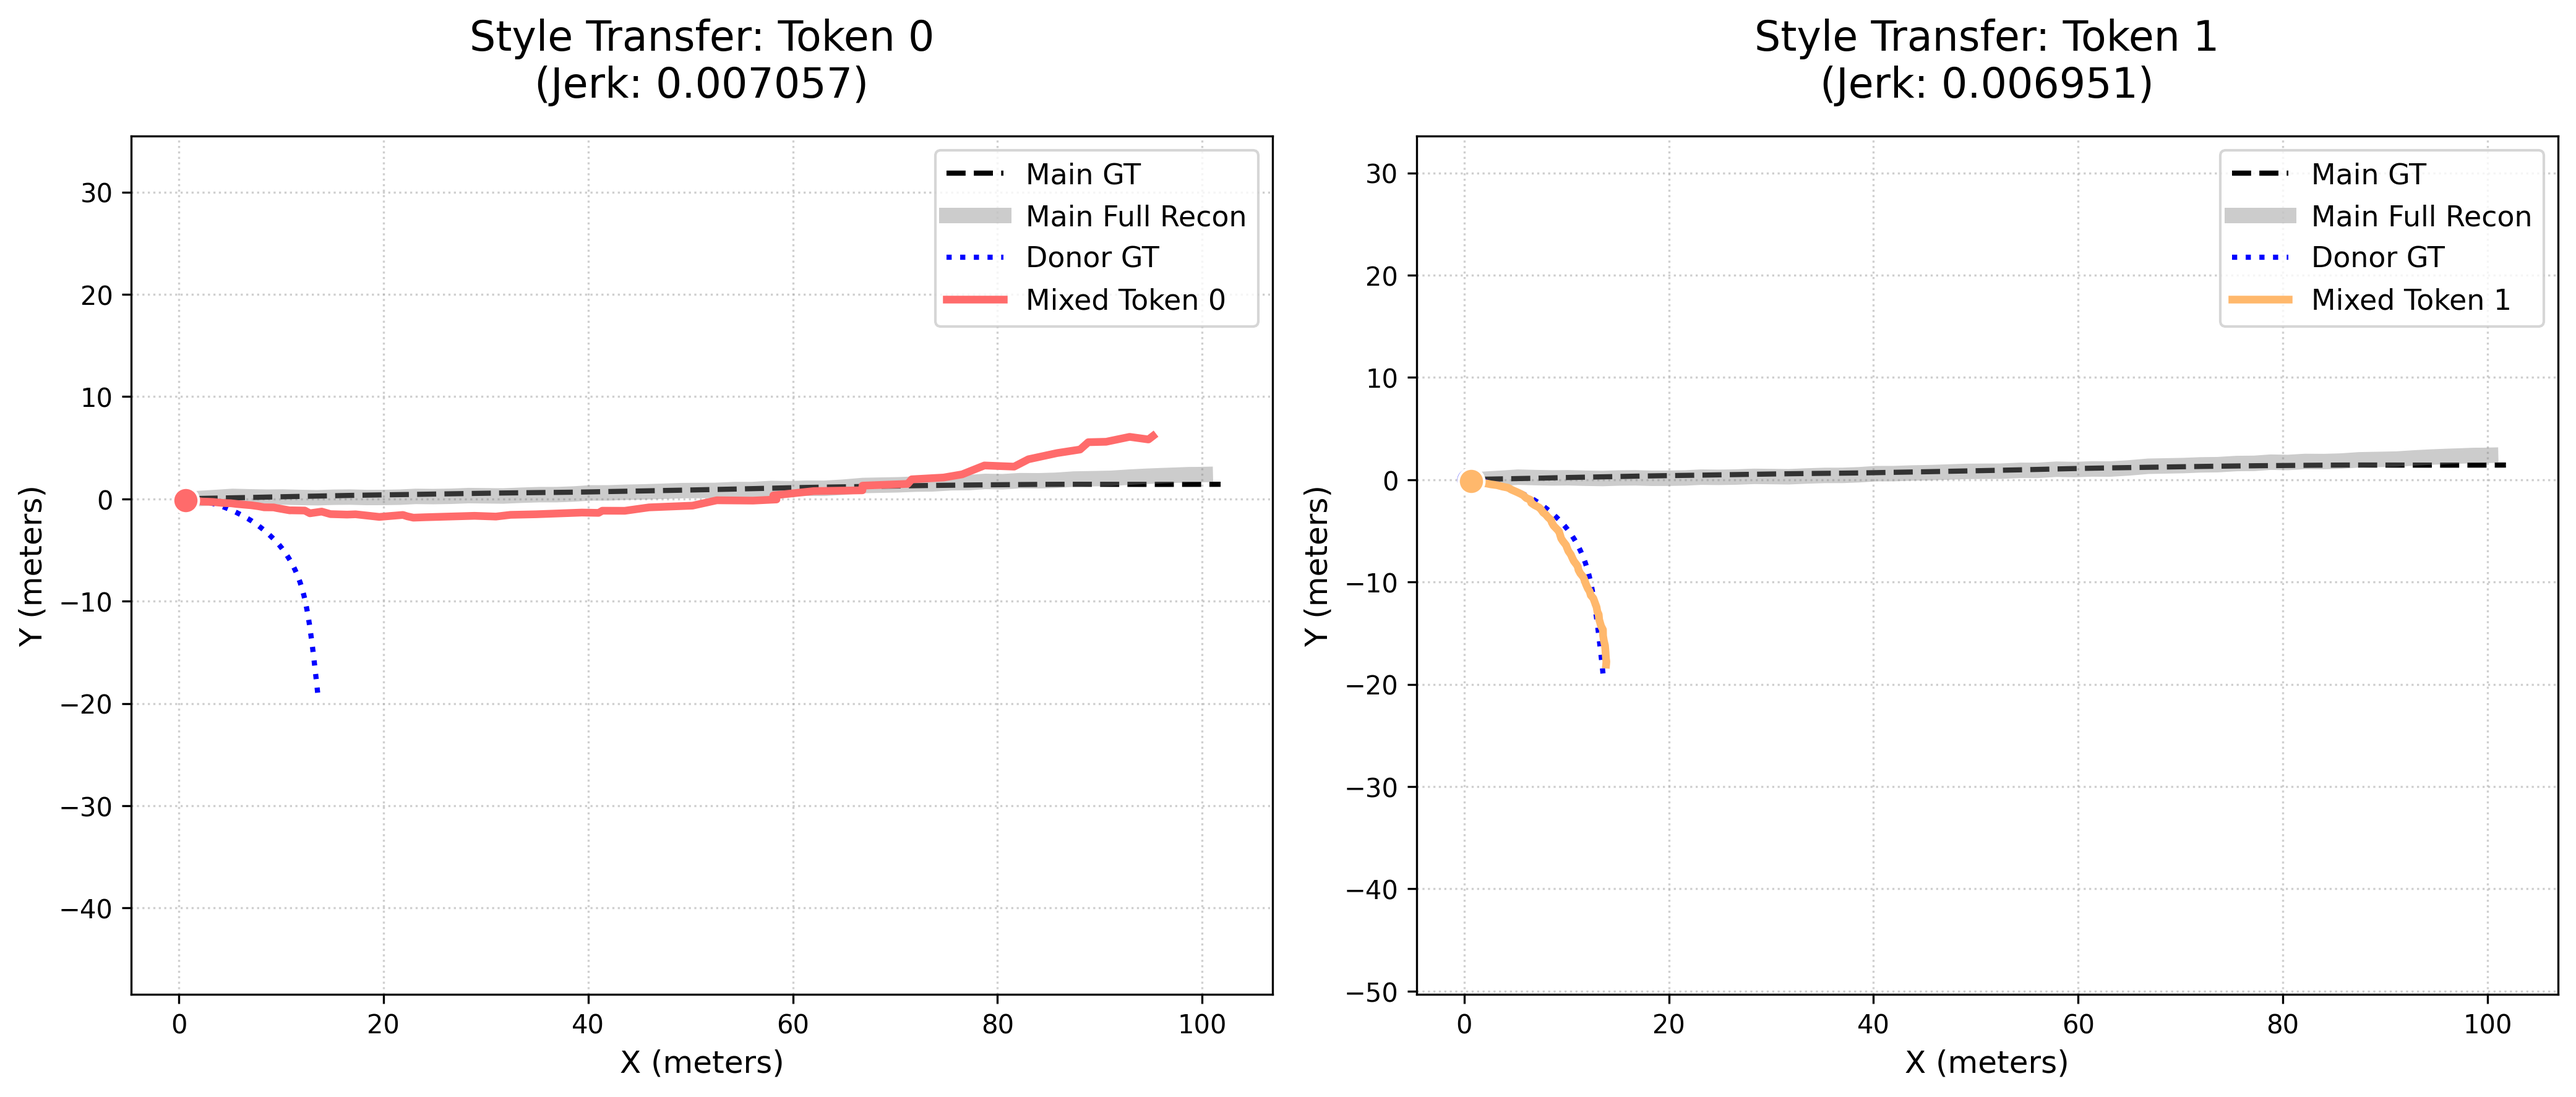
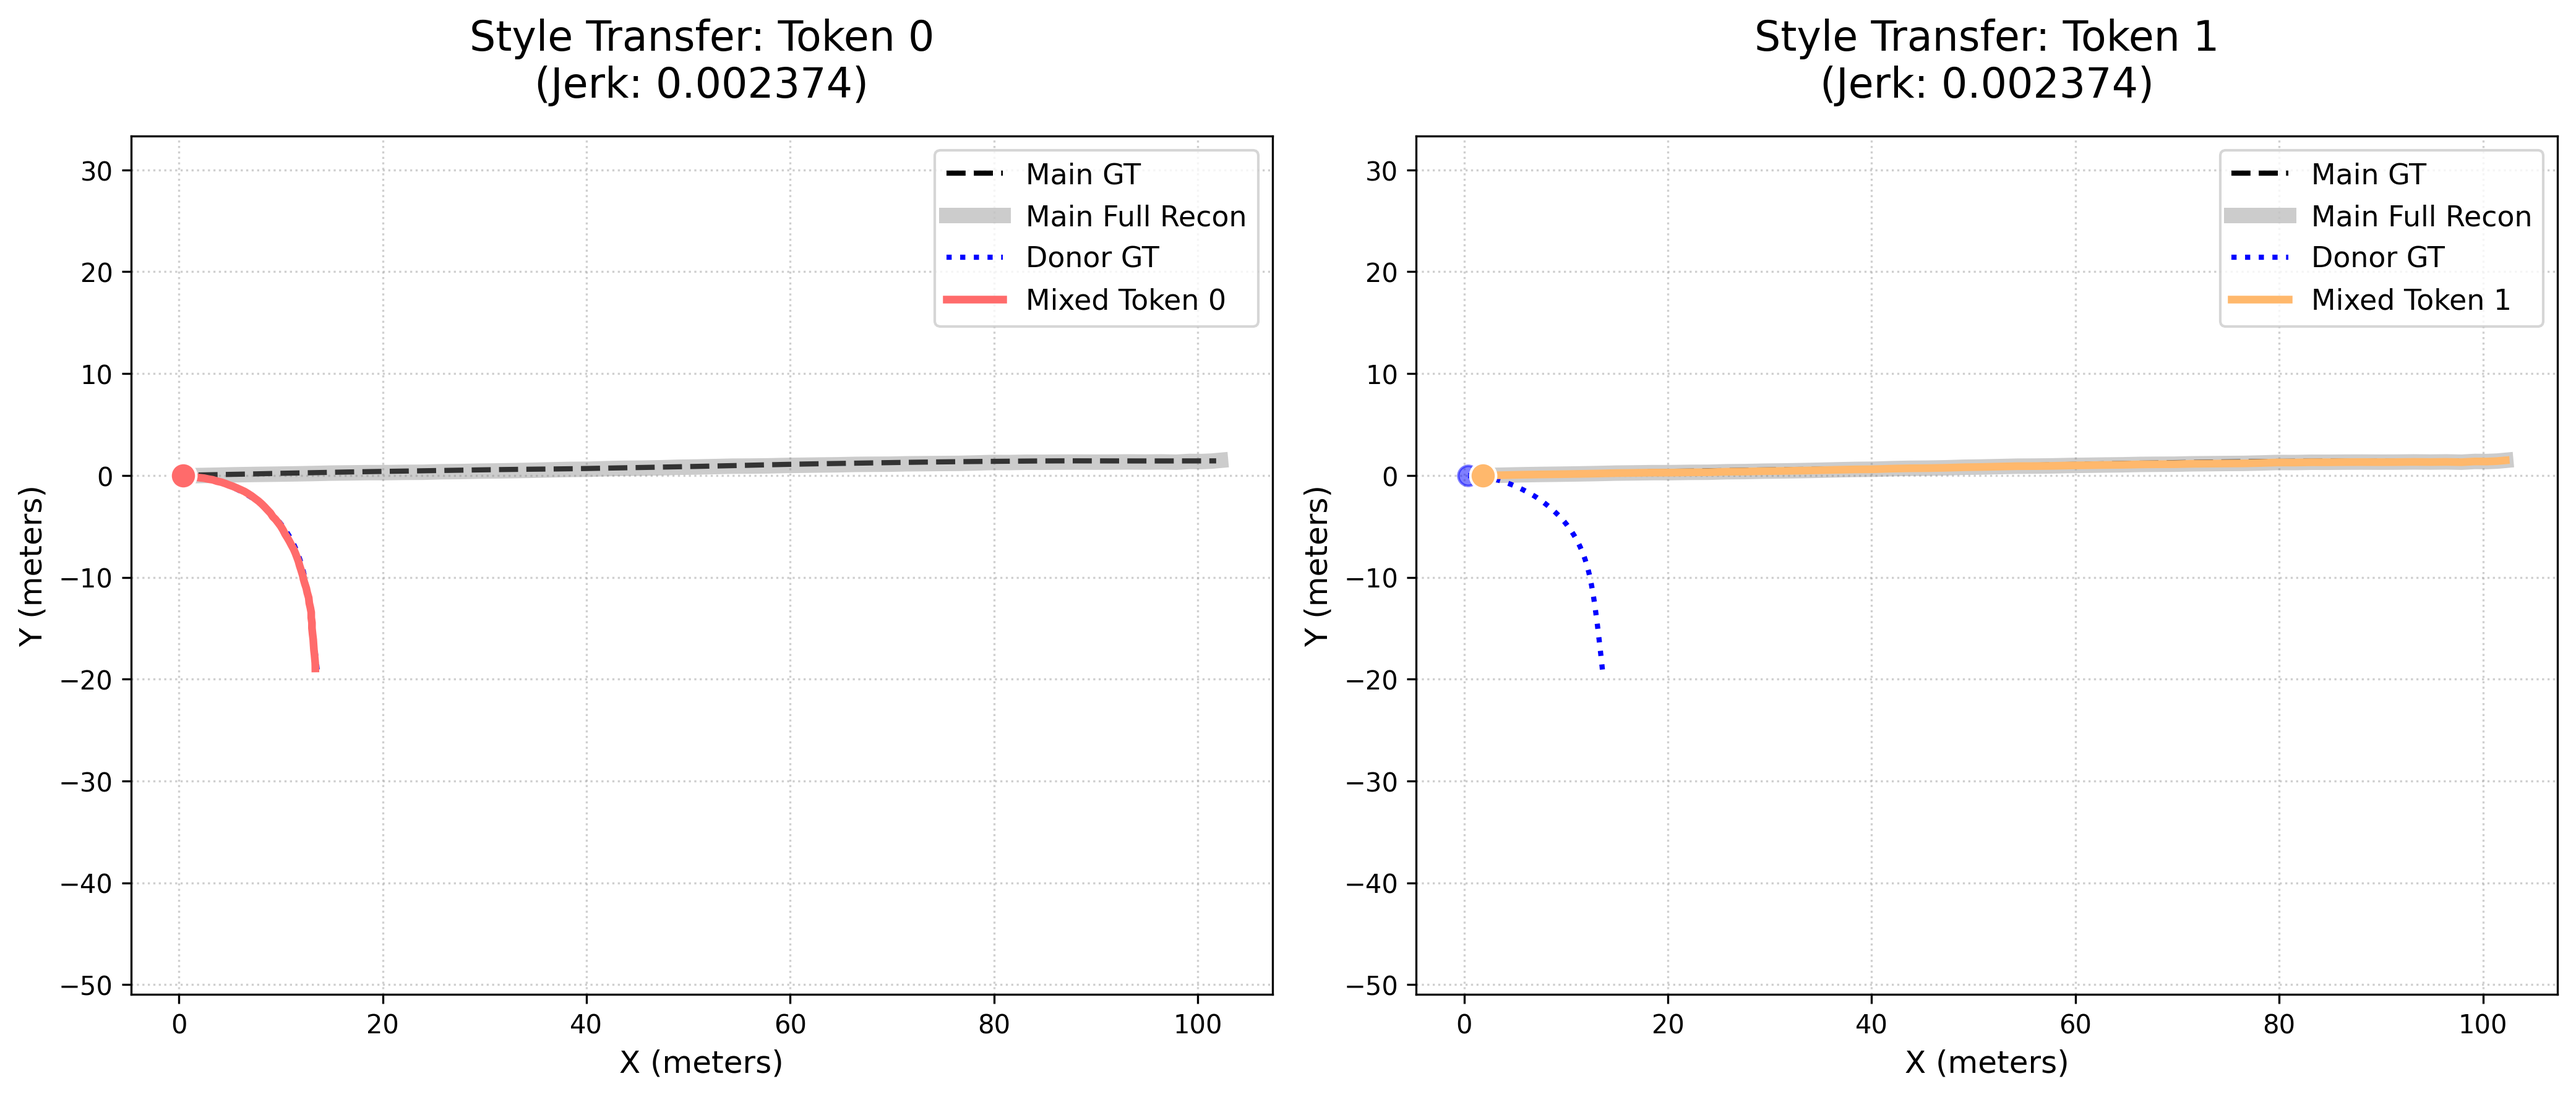
无分工引导VAE

diff --git a/layers/VAE.py b/layers/VAE.py
@@ -13,6 +13,8 @@
 # limitations under the License.
 from typing import Tuple
 
+import math
+
 import torch
 import torch.nn as nn
 
@@ -74,8 +76,7 @@ class VAEEncoderBlock(nn.Module):
     # ------------------------------------------------------------------
     #  Helper: self-attention transformer block
     # ------------------------------------------------------------------
-    @staticmethod
-    def _self_attn_block(x: torch.Tensor,
+    def _self_attn_block(self, x: torch.Tensor,
                          norm1: nn.LayerNorm,
                          attn: nn.MultiheadAttention,
                          norm2: nn.LayerNorm,
@@ -91,8 +92,7 @@ class VAEEncoderBlock(nn.Module):
     # ------------------------------------------------------------------
     #  Helper: cross-attention transformer block
     # ------------------------------------------------------------------
-    @staticmethod
-    def _cross_attn_block(q: torch.Tensor,
+    def _cross_attn_block(self, q: torch.Tensor,
                           kv: torch.Tensor,
                           norm_q: nn.LayerNorm,
                           norm_kv: nn.LayerNorm,
@@ -172,12 +172,12 @@ class VAEDecoderBlock(nn.Module):
             nn.Dropout(dropout),
             nn.Linear(hidden_dim * 4, hidden_dim),
         )
+        self.last_attn_weights = None
 
     # ------------------------------------------------------------------
     #  Helper: self-attention transformer block
     # ------------------------------------------------------------------
-    @staticmethod
-    def _self_attn_block(x: torch.Tensor,
+    def _self_attn_block(self, x: torch.Tensor,
                          norm1: nn.LayerNorm,
                          attn: nn.MultiheadAttention,
                          norm2: nn.LayerNorm,
@@ -192,8 +192,7 @@ class VAEDecoderBlock(nn.Module):
     # ------------------------------------------------------------------
     #  Helper: cross-attention transformer block
     # ------------------------------------------------------------------
-    @staticmethod
-    def _cross_attn_block(q: torch.Tensor,
+    def _cross_attn_block(self,q: torch.Tensor,
                           kv: torch.Tensor,
                           norm_q: nn.LayerNorm,
                           norm_kv: nn.LayerNorm,
@@ -203,7 +202,8 @@ class VAEDecoderBlock(nn.Module):
         """Pre-Norm → Cross-Attention → Residual → Pre-Norm → FFN → Residual."""
         q_norm = norm_q(q)
         kv_norm = norm_kv(kv)
-        attn_out, _ = attn(q_norm, kv_norm, kv_norm)
+        attn_out, attn_weights = attn(q_norm, kv_norm, kv_norm)
+        self.last_attn_weights = attn_weights
         q = q + attn_out
         q = q + ffn(norm2(q))
         return q
@@ -249,7 +249,7 @@ class VAE(nn.Module):
                  num_future_steps: int = 60,
                  num_intents: int = 4,
                  num_encoder_blocks: int = 2,
-                 num_decoder_blocks: int = 1,
+                 num_decoder_blocks: int = 2,
                  num_freq_bands: int = 64,
                  num_heads: int = 8,
                  dropout: float = 0.1) -> None:
@@ -261,7 +261,7 @@ class VAE(nn.Module):
         self.latent_dim = latent_dim
 
         # ---- Encoder: Fourier embedding ----
-        self.fourier_emb = FourierEmbedding(input_dim=input_dim, hidden_dim=hidden_dim,
+        self.fourier_emb = FourierEmbedding(input_dim=input_dim*2, hidden_dim=hidden_dim,
                                              num_freq_bands=num_freq_bands)
 
         # ---- Encoder: Stacked VAEEncoderBlocks ----
@@ -271,7 +271,20 @@ class VAE(nn.Module):
             for _ in range(num_encoder_blocks)
         ])
 
-        self.intent_queries = nn.Parameter(torch.randn(num_intents, 1, hidden_dim))
+        pe = torch.zeros(num_future_steps, hidden_dim)
+        position = torch.arange(0, num_future_steps, dtype=torch.float).unsqueeze(1)
+        div_term = torch.exp(torch.arange(0, hidden_dim, 2).float() * (-math.log(10000.0) / hidden_dim))
+        pe[:, 0::2] = torch.sin(position * div_term)
+        pe[:, 1::2] = torch.cos(position * div_term)
+        pe = pe.unsqueeze(1) # [T_f, 1, hidden_dim]
+        self.register_buffer('time_pe', pe) # 注册 buffer，使其随模型保存但不参与梯度更新
+        
+        # 2. 可学习的时间查询基座 (保持不变)
+        self.time_queries_base = nn.Parameter(torch.randn(num_future_steps, 1, hidden_dim) * 0.1)
+
+        self.register_buffer('time_pe', pe)
+
+        self.intent_queries = nn.Parameter(torch.randn(num_intents, 1, hidden_dim) * 0.1)
 
         # ---- Reparameterization (shared MLP, after all encoder blocks) ----
         self.reparam_mlp = nn.Sequential(
@@ -311,10 +324,14 @@ class VAE(nn.Module):
             logvar: [3, N_a, hidden_dim]
             z:      [3, N_a, hidden_dim] sampled latent variables.
         """
-        N_a, T_f, _ = x.shape
+        N_a, T_f, D = x.shape
+
+        vel = torch.cat([torch.zeros(N_a, 1, D, device=x.device), 
+                         x[:, 1:, :] - x[:, :-1, :]], dim=1)
+        x_augmented = torch.cat([x, vel], dim=-1)
 
         # 1. FourierEmbedding per timestep
-        x_flat = x.view(N_a * T_f, self.input_dim)
+        x_flat = x_augmented.view(N_a * T_f, self.input_dim * 2)
         x_emb = self.fourier_emb(continuous_inputs=x_flat, categorical_embs=None)
         x_emb = x_emb.view(N_a, T_f, self.hidden_dim)
         x_seq = x_emb.transpose(0, 1)  # [T_f, N_a, hidden_dim]
@@ -356,10 +373,18 @@ class VAE(nn.Module):
             recon_x: [N_a, T_f, 2] reconstructed trajectories.
         """
         N_a = z.size(1)
+        # 🌟 强行打破垄断：训练阶段，随机“遮蔽”或“打乱” Token
+        if self.training:
+            # 策略：30% 的概率随机扔掉部分 Token，强迫解码器寻找其他信息来源
+            # 这是一个简单的 Dropout 变种，但作用在潜空间 Token 上
+            if torch.rand(1) < 0.2:
+                # 随机选择一个 Token 索引进行屏蔽
+                drop_idx = torch.randint(0, self.num_intents, (1,)).item()
+                z[drop_idx, :, :] = 0
         z = self.z_proj(z)  # [3, N_a, hidden_dim] → projected to hidden_dim for cross-attention
 
         # Expand learnable time queries (shared across all decoder blocks)
-        time_q = self.time_queries.expand(-1, N_a, -1)  # [T_f, N_a, hidden_dim]
+        time_q = (self.time_queries_base + self.time_pe).expand(-1, N_a, -1)  # [T_f, N_a, hidden_dim]
 
         # 1. Stacked decoder blocks (Time SA → Time×Latent CA per block)
         for dec_block in self.decoder_blocks:

diff --git a/profile_vae.py b/profile_vae.py
@@ -69,7 +69,9 @@ def main():
     print("="*50)
     
     with torch.no_grad():
-        z_target = model.latent_encoder.encode(target) 
+        z_target = model.latent_encoder.encode(target)
+        z_norm = z_target.norm(dim=-1).mean(dim=1) # [K]
+        print(f"📊 Token Norms (每个意图的平均激活强度): {z_norm}") 
         
         # 寻找需要预测的主车 (category == 3)
         eval_mask = data['agent']['category'] == 3
@@ -125,6 +127,51 @@ def main():
             
             print(f"👉 替换 Token {i} 后主车的平均急动度 (Jerk): {jerk_magnitude:.6f}")
             isolated_trajs.append(traj_iso[agent_idx].cpu().numpy() * 10.0)
+
+    # 在 profile.py 中，循环结束后增加可视化代码
+
+    # 假设你已经有了 isolated_trajs
+    # 1. 提取第一个 Decoder Block 的注意力权重
+    # 注意：你的 decoder_blocks 是一个 ModuleList
+    first_decoder_block = model.latent_decoder.vae.decoder_blocks[0]
+    # 1. 拦截原始权重
+    weights = first_decoder_block.last_attn_weights # 形状应该是 [Batch, Heads, Tgt, Src]
+    print(f"DEBUG: 原始权重形状: {weights.shape}")
+
+    # 2. 我们只需要 [Tgt, Src] (例如 [60, K])
+    # 策略：取第一个 batch，然后对 Heads (维度1) 求平均
+    attn_map = weights[0].mean(dim=0) 
+    print(f"DEBUG: 对 Heads 求平均后形状: {attn_map.shape}")
+
+    # 3. 核心：转为 Numpy 并检查维度
+    attn_map_np = attn_map.detach().cpu().numpy()
+
+    # 如果形状是 (2,)，说明它变成了一维数组，我们需要看看它到底是什么
+    if attn_map_np.ndim != 2:
+        print(f"❌ 警告：依然不是 2D 矩阵！当前形状: {attn_map_np.shape}")
+        print(f"内容: {attn_map_np}") # 打印内容看看
+    
+    # 强制修正逻辑：
+    # 如果只有两个维度但不是 [60, K]，尝试强行 reshape
+    # 假设你的目标是 [60, K]，如果不是，请根据打印出来的形状手动调整
+    if attn_map_np.size == 120: # 60 * 2 = 120
+         attn_map_np = attn_map_np.reshape(60, 2)
+    else:
+         # 如果完全不知道形状，把所有维度展平后再 reshape 试试
+         attn_map_np = attn_map_np.reshape(-1, attn_map_np.shape[-1] if attn_map_np.ndim > 1 else 1)
+
+    # 4. 只有确保了是 2D 才能画图
+    if attn_map_np.ndim == 2:
+        plt.figure(figsize=(8, 6))
+        plt.imshow(attn_map_np, cmap='viridis', aspect='auto')
+        plt.colorbar(label='Attention Weight')
+        plt.title(f"Cross-Attention Map (Time vs Intents)")
+        plt.xlabel("Intent Tokens")
+        plt.ylabel("Time Steps")
+        plt.savefig("attention_heatmap.png", dpi=300)
+        print("✅ 热力图成功保存: attention_heatmap.png")
+    else:
+        print(f"❌ 无法画图，因为 reshape 后维度依然是 {attn_map_np.ndim}")
             
         # 💡 画图时，建议把 donor_idx 的真实轨迹也画在背景里作为参考！
     # ================= 画图模块 (动态自适应版) =================

diff --git a/predictors/qcnet_fm.py b/predictors/qcnet_fm.py
@@ -329,7 +329,7 @@ class QCNetFM(pl.LightningModule):
             z_target = self.latent_encoder.encode(target, predict_mask=predict_mask)  # [N_a, 3, H]
 
             x_0, t = FlowMatchingLoss.sample_noise_and_time_latent(
-                self.vae_num_intents, target.size(0), self.hidden_dim, self.device, agent_batch)
+                self.vae_num_intents, target.size(0), self.latent_dim, self.device, agent_batch)
             t_exp = t[:, None, None]
             x_t = (1 - t_exp) * x_0 + t_exp * z_target
             v_theta = self(data, scene_enc, x_t, t)
